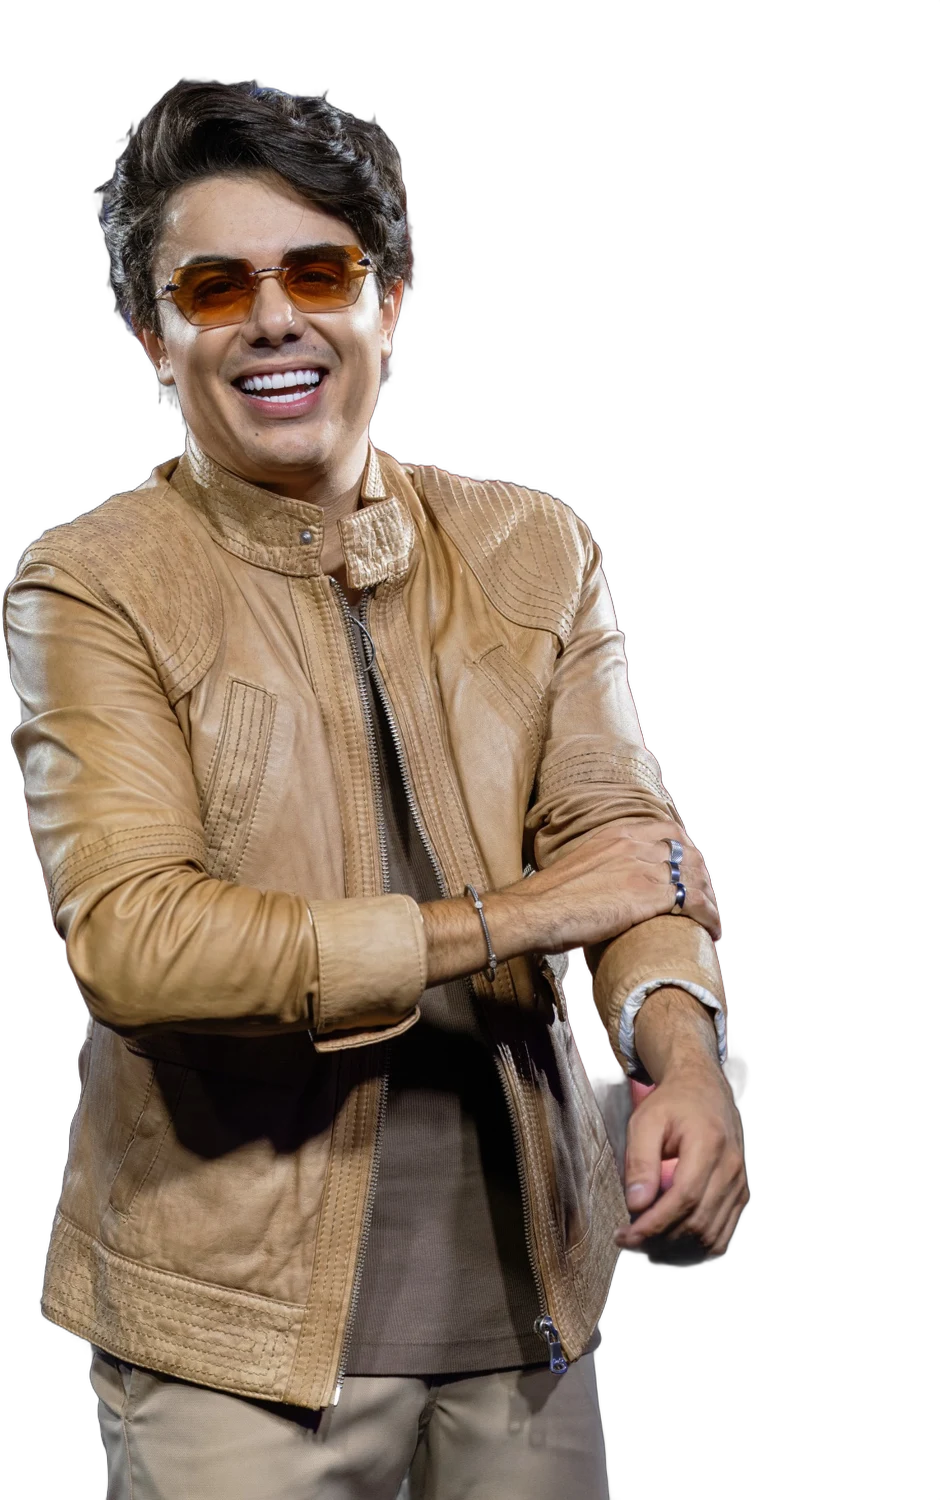
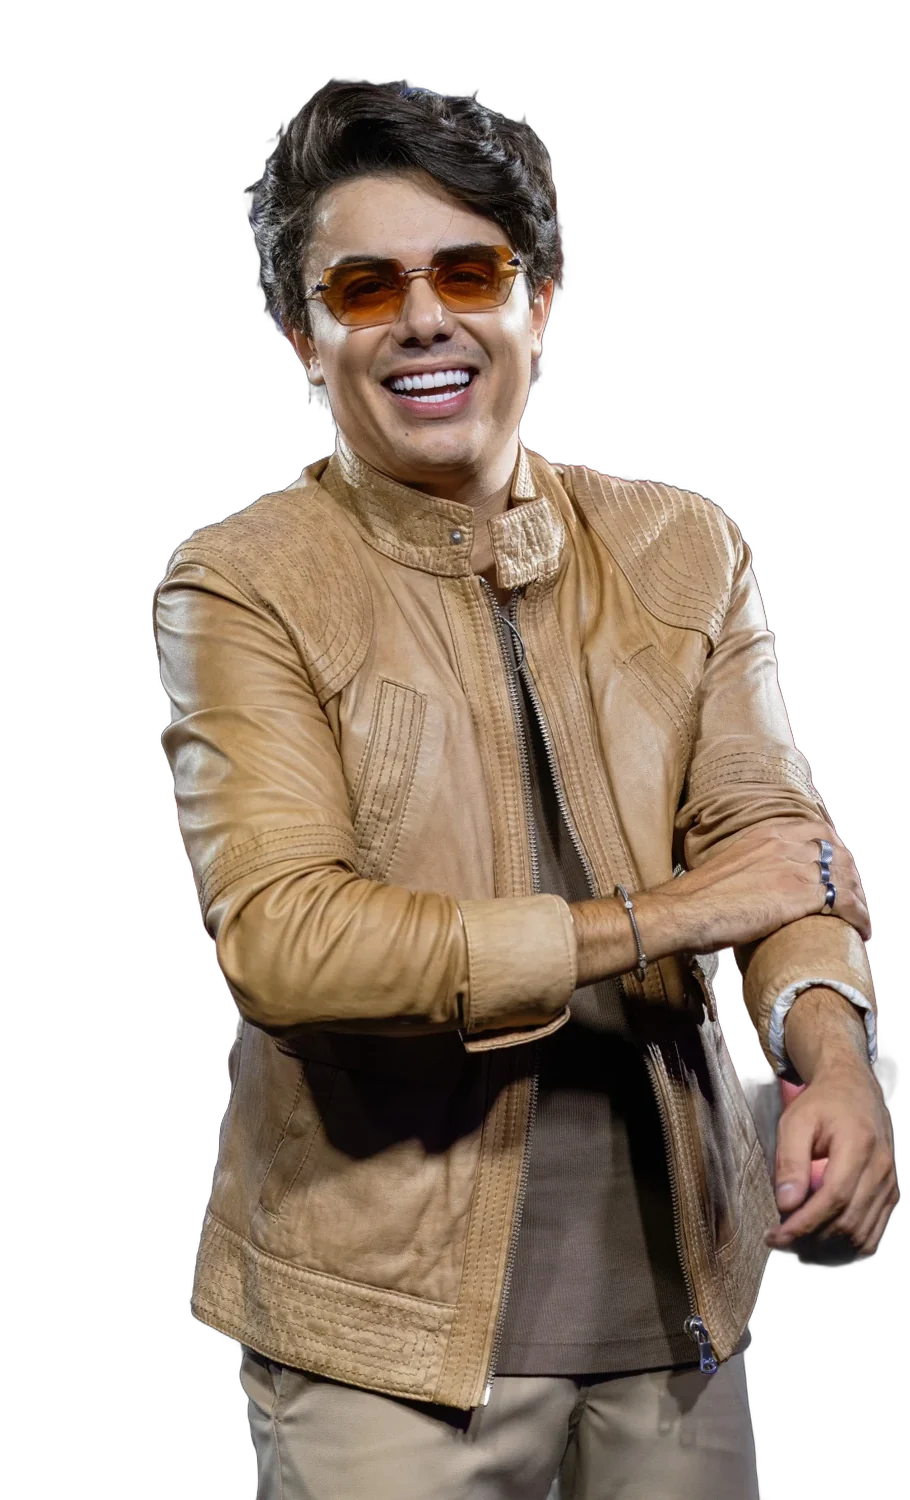
O Show: Pedro centralizado com PL atrás

diff --git a/index.html b/index.html
@@ -168,9 +168,9 @@
   /* celular: texto primeiro, artista embaixo encostado na próxima seção */
   @media (max-width:860px){
     .show{padding-top:clamp(56px,14vw,88px)}
-    .show .pic{order:2;padding-top:clamp(90px,26vw,140px)}
+    .show .pic{order:2;padding-top:clamp(36px,10vw,56px)}
     section.show .pic img{max-height:min(560px,68vh);margin:0 auto}
-    .show .pic .jm{font-size:clamp(150px,46vw,240px)}
+    .show .pic .jm{font-size:clamp(200px,62vw,320px)}
     .show > .reveal:last-child{padding-bottom:8px}
   }
   @media (max-width:760px){
@@ -444,7 +444,7 @@
 <section class="slide show" id="show">
   <div class="pic reveal">
     <span class="jm" aria-hidden="true">PL</span>
-    <img src="img/show-cut.webp" alt="Pedro Libe sorrindo no palco, de jaqueta de couro caramelo" loading="lazy" width="940" height="1500">
+    <img src="img/show-cut.webp?v=2" alt="Pedro Libe sorrindo no palco, de jaqueta de couro caramelo" loading="lazy" width="910" height="1500">
   </div>
   <div class="reveal">
     <h2 class="script">O Show</h2>
